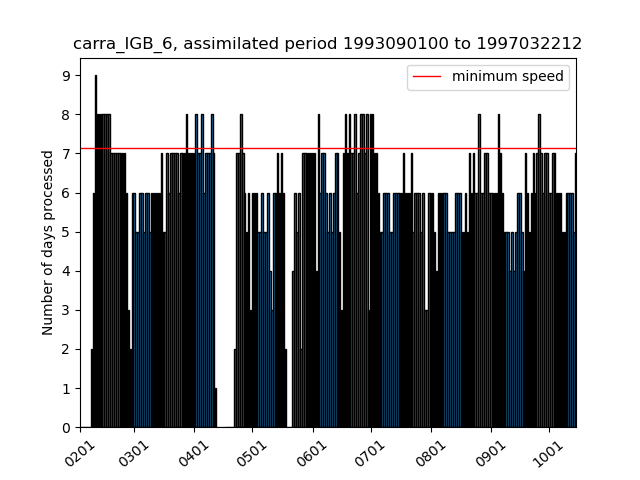
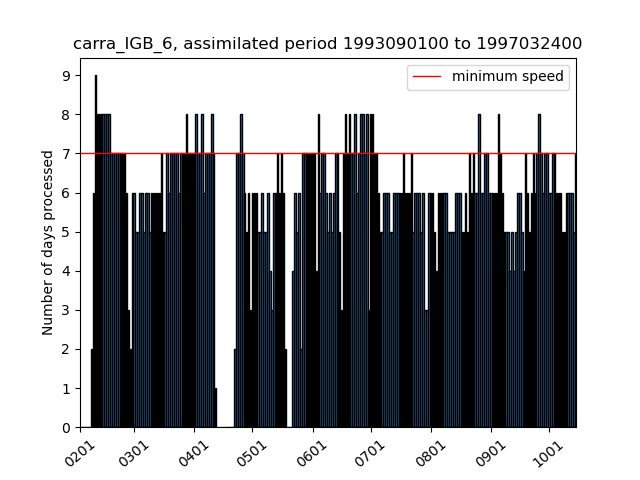
update repo

Changed region(s): [[0.125, 0.2812, 0.9062, 0.3438], [0.8438, 0.0625, 0.9062, 0.125]]

diff --git a/current_state_sims.html b/current_state_sims.html
@@ -2,18 +2,18 @@
 <h1>Estimated completion dates and simulation speeds</h1>
 <p>Stream (production) completion date based on 30d (7d) moving avg speed</p>
 <p><a href="https://docs.google.com/document/d/1zDKAxuEXYnWWYzT3SZnZwY5WW8nodUMeYRjAGz46coc/edit#">Details of the calculation of the completion dates</a></p>
-<p>Last update: 2021/10/16 12:40:25 UTC</p>
+<p>Last update: 2021/10/16 18:41:33 UTC</p>
 <p>Total progress CARRA: 99.66% <a href="https://hirlam.org/portal/CARRA/Progress/GanntChart_CARRA.html"> (see detailed progress meter in Gantt chart) </a></p>
 <p>Total progress PANARCTIC: 91.67% </p>
 <p><a href="https://hirlam.org/portal/CARRA/Progress/waiting_times.html"> Queue waiting times for all streams</a></p>
 <p><a href="https://hirlam.org/portal/CARRA/Progress/mars_status.html"> MARS archive throughput </a></p>
 <html><table border="1"><tr><th>expId</th><th>Current assimilated date</th><th>End date of stream </th><th> Completion date</th><th> Avg. throughput (7d) </th> <th>Avg. throughput (30d) </th> <th> Remarks</tr>
-<tr bgcolor="#33FF38"><td>carra_NE_3</td><td>2021070100</td><td>2021063021</td><td>2021101511</td><td>(0.14) days/day</td><td>(0.97) days/day</td><td>Stream finished</tr>
+<tr bgcolor="#33FF38"><td>carra_NE_3</td><td>2021070100</td><td>2021063021</td><td>2021101517</td><td>(0.14) days/day</td><td>(0.97) days/day</td><td>Stream finished</tr>
 <tr bgcolor="#33FF38"><td>carra_NE_4</td><td>1992090100</td><td>1992083021</td><td>Finished on 20210824</td><td>(0.0) days/day</td><td>(0.0) days/day</td><td>Stream finished</tr>
 <tr bgcolor="#33FF38"><td>carra_NE_5</td><td>1994090100</td><td>1994083021</td><td>Finished on 20210824</td><td>(0.0) days/day</td><td>(0.0) days/day</td><td>Stream finished</tr>
 <tr bgcolor="#33FF38"><td>carra_NE_6</td><td>1997070100</td><td>1997063021</td><td>Finished on 20210915</td><td>(0.0) days/day</td><td>(0.0) days/day</td><td>Stream finished</tr>
-<tr bgcolor="#33FF38"><td>carra_IGB_3</td><td>2021070100</td><td>2021063021</td><td>2021101515</td><td>(0.14) days/day</td><td>(1.13) days/day</td><td>Stream finished</tr>
+<tr bgcolor="#33FF38"><td>carra_IGB_3</td><td>2021070100</td><td>2021063021</td><td>2021101521</td><td>(0.14) days/day</td><td>(1.13) days/day</td><td>Stream finished</tr>
 <tr bgcolor="#33FF38"><td>carra_IGB_4</td><td>1992090100</td><td>1992083021</td><td>Finished on 20210907</td><td>(0.0) days/day</td><td>(0.0) days/day</td><td>Stream finished</tr>
-<tr bgcolor="#33FF38"><td>carra_IGB_5</td><td>1994090100</td><td>1994083021</td><td>2021101511</td><td>(0.0) days/day</td><td>(1.9) days/day</td><td>Stream finished</tr>
-<tr bgcolor="#FFA500"><td>carra_IGB_6</td><td>1997032212</td><td>1997063021</td><td>2021110119</td><td>(5.86) days/day</td><td>(6.13) days/day</td><td>Completion date after project end (20211031)</tr>
-<tr bgcolor="#33FF38"><td>carra_pan</td><td>2018090100</td><td>2018090100</td><td>2021101612</td><td>(0.0) days/day</td><td>(2.63) days/day</td><td>Stream finished</tr>
+<tr bgcolor="#33FF38"><td>carra_IGB_5</td><td>1994090100</td><td>1994083021</td><td>2021101517</td><td>(0.0) days/day</td><td>(1.9) days/day</td><td>Stream finished</tr>
+<tr bgcolor="#FFA500"><td>carra_IGB_6</td><td>1997032400</td><td>1997063021</td><td>2021110118</td><td>(5.86) days/day</td><td>(6.13) days/day</td><td>Completion date after project end (20211031)</tr>
+<tr bgcolor="#33FF38"><td>carra_pan</td><td>2018090100</td><td>2018090100</td><td>2021101618</td><td>(0.0) days/day</td><td>(2.63) days/day</td><td>Stream finished</tr>
